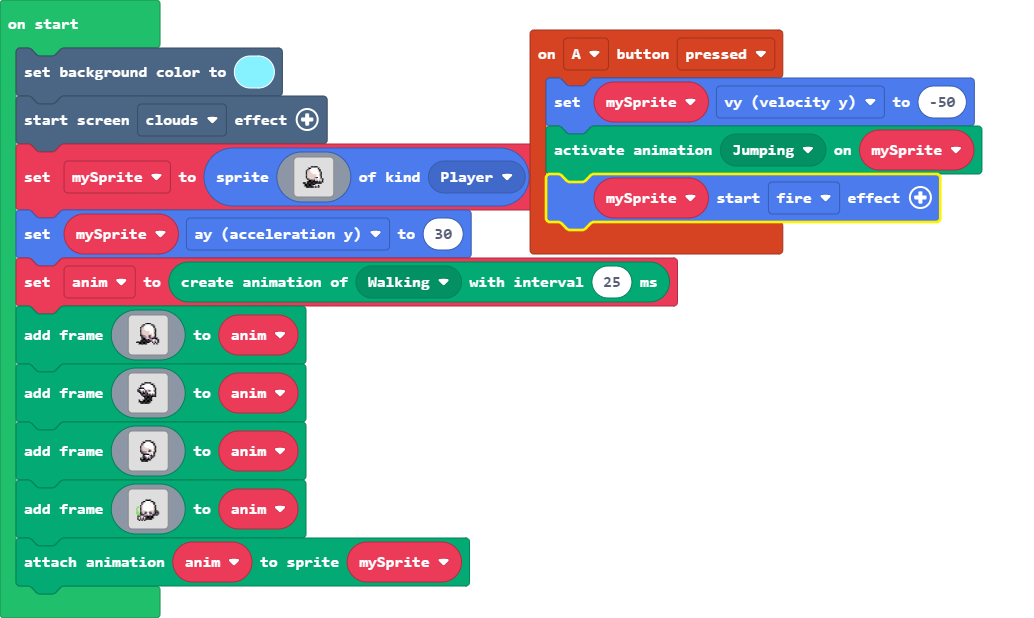
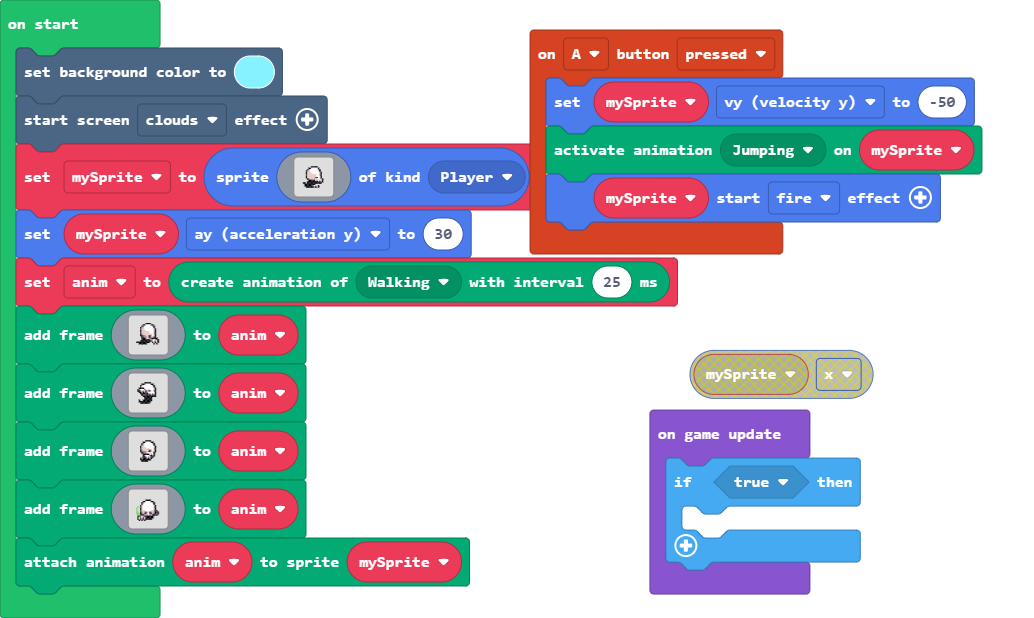
Update main.blocks, main.ts

Changed region(s): [[0.619, 0.5534, 0.8665, 0.9838], [0.5261, 0.2767, 0.9284, 0.3689]]

diff --git a/main.ts b/main.ts
@@ -144,3 +144,8 @@ anim.addAnimationFrame(img`
     ........................
     `)
 animation.attachAnimation(mySprite, anim)
+game.onUpdate(function () {
+    if (true) {
+    	
+    }
+})
